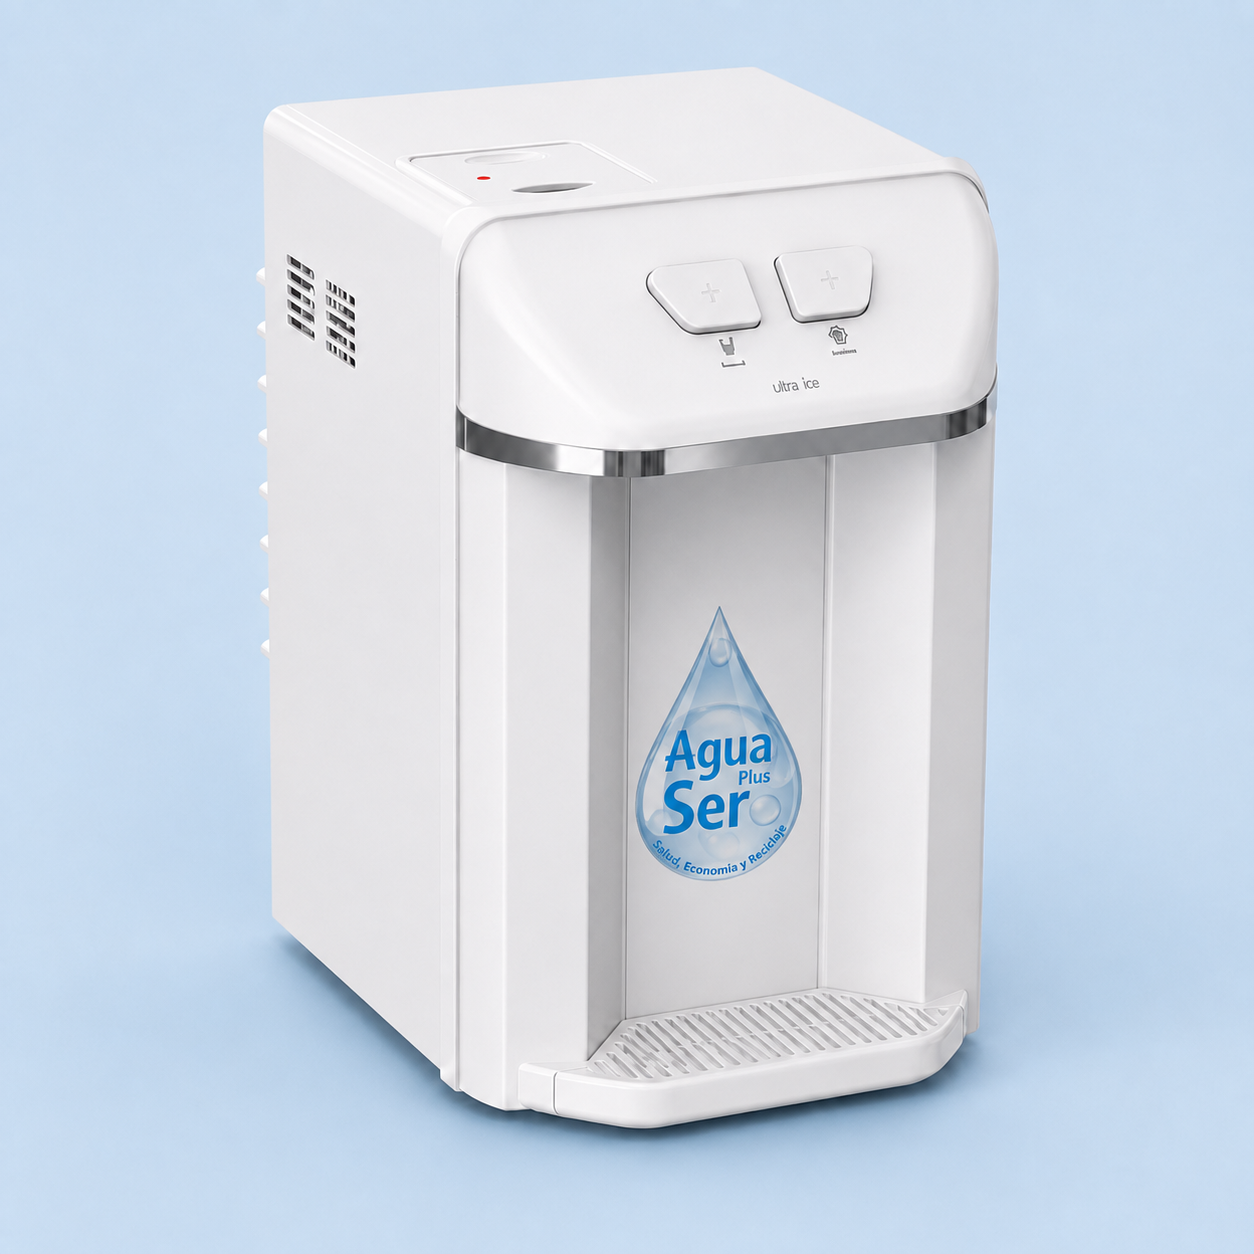
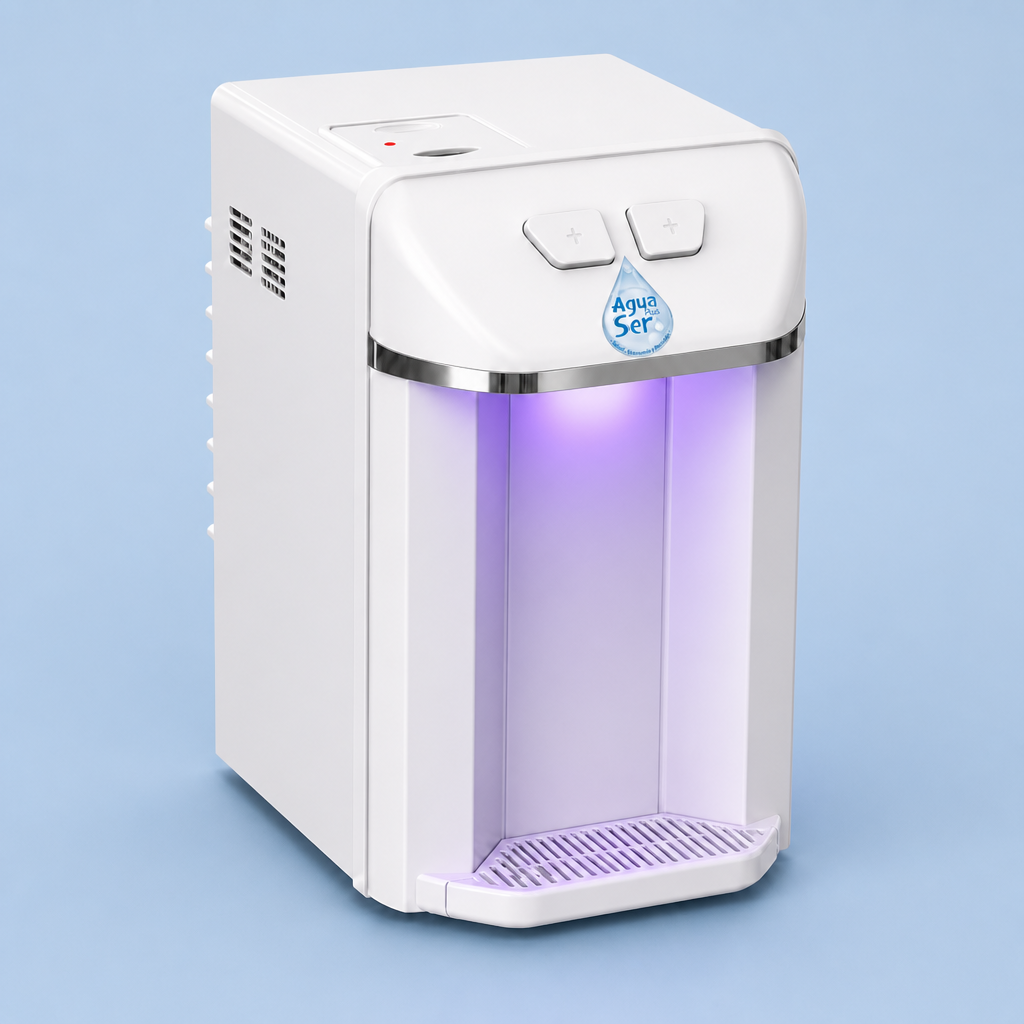
Update Ultra Ice photos with UVC-LED glow and Agua Ser Plus branding.
Replace blanco/negro assets, add the silver variant from the catalog, and refresh product copy for alkaline UVC-LED features.

diff --git a/src/lib/products.ts b/src/lib/products.ts
@@ -668,29 +668,32 @@ export const catalogProducts: ProductOffer[] = [
     id: "acquabios-ultra-ice",
     name: "ULTRA ICE Acquabios",
     brand: "Acquabios",
-    subtitle: "Purificador de agua — fría y temperatura ambiente",
+    subtitle: "Purificador UVC-LED — agua fría y ambiente · refil alcalino",
     description:
-      "Compacto y altamente eficiente. Su depósito es ultra-resistente a la presión del agua y antibacteriano, con un moderno sistema de refrigeración por compresor. Ideal para hogar u oficina: agua natural y fría en un solo equipo.",
+      "Compacto y altamente eficiente, con nicho iluminado por tecnología UVC-LED que elimina el 99,9% de bacterias. Depósito antibacteriano ultra-resistente, refrigeración por compresor y refil alcalino. Ideal para hogar u oficina: agua natural y fría en un solo equipo. Medidas 40 × 26 × 35 cm.",
     priceBefore: 0,
     priceNow: 0,
-    badge: "Nuevo",
+    badge: "UVC-LED",
     badgeTone: "green",
-    note: "Códigos: 1008-0181 (220V) / 1008-0182 (127V)",
-    image: "/products/product-ultra-ice-negro.png",
+    note: "Códigos: Blanco 1008-0179/0180 · Negro 1008-0181/0182 · Plata 1008-0183/0184",
+    image: "/products/product-ultra-ice-plata.png",
     images: [
-      "/products/product-ultra-ice-negro.png",
+      "/products/product-ultra-ice-plata.png",
       "/products/product-ultra-ice-blanco.png",
+      "/products/product-ultra-ice-negro.png",
     ],
     tint: "blue",
     category: "filtracion",
     featured: true,
     inStock: true,
     tags: [
+      { label: "UVC-LED", icon: "bolt" },
       { label: "Agua fría", icon: "snowflake" },
-      { label: "Temperatura ambiente", icon: "kettle" },
-      { label: "Compresor", icon: "bolt" },
+      { label: "Alcalina", icon: "kettle" },
     ],
     characteristics: [
+      { label: "Tecnología", value: "UVC-LED (elimina 99,9% de bacterias)" },
+      { label: "Refil", value: "Alcalino · ultra duradero" },
       { label: "Flujo del agua", value: "60 litros por hora" },
       {
         label: "Reducción de cloro, olor y mal sabor",
@@ -709,12 +712,14 @@ export const catalogProducts: ProductOffer[] = [
         label: "Volumen interno del reservorio",
         value: "2,3 litros",
       },
+      { label: "Medidas (Al × An × Pr)", value: "40 × 26 × 35 cm" },
     ],
     features: [
+      "Tecnología UVC-LED con nicho iluminado",
+      "Refil alcalino",
       "Sistema de refrigeración por compresor",
       "Cartucho de fácil sustitución: gira y cambia",
-      "Cartucho ultra duradero",
-      "Luz indicadora para el reemplazo del cartucho",
+      "LED indicativo para el reemplazo del cartucho",
       "Reservorio antibacterial y ultra resistente",
       "Bajo consumo de energía",
       "Calidad comprobada",
@@ -726,6 +731,12 @@ export const catalogProducts: ProductOffer[] = [
     ],
     colors: [
       {
+        name: "Plata",
+        codes: "1008-0183 (220V) / 1008-0184 (127V)",
+        swatch: "#c5ccd3",
+        image: "/products/product-ultra-ice-plata.png",
+      },
+      {
         name: "Blanco",
         codes: "1008-0179 (220V) / 1008-0180 (127V)",
         swatch: "#f4f6f8",
@@ -736,11 +747,6 @@ export const catalogProducts: ProductOffer[] = [
         codes: "1008-0181 (220V) / 1008-0182 (127V)",
         swatch: "#1a1a1a",
         image: "/products/product-ultra-ice-negro.png",
-      },
-      {
-        name: "Plata",
-        codes: "1008-0183 (220V) / 1008-0184 (127V)",
-        swatch: "#c5ccd3",
       },
     ],
   },
